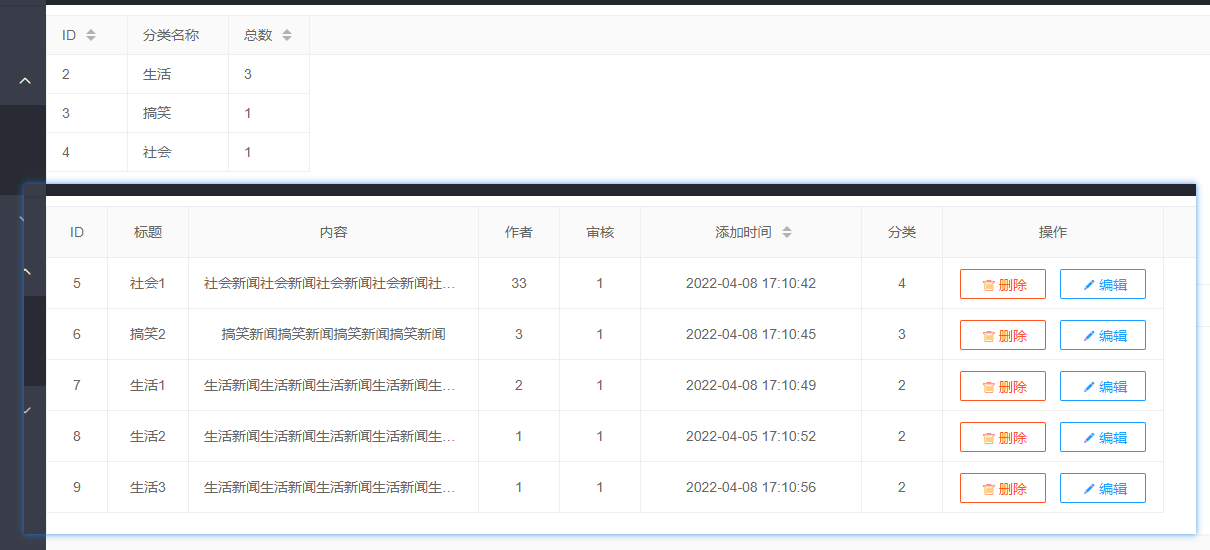
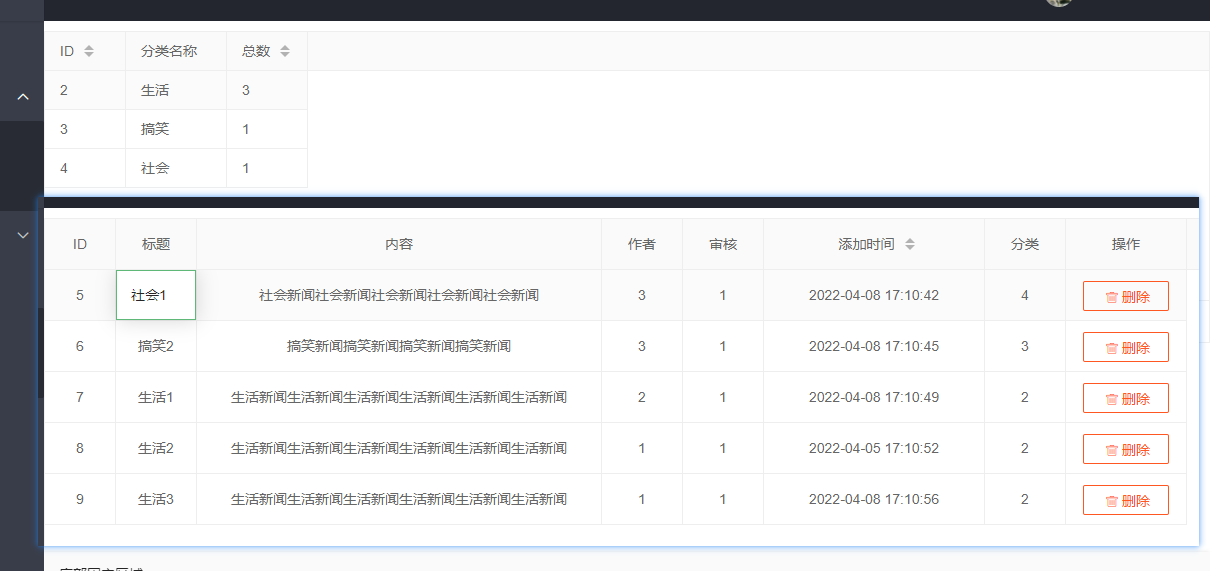
feat:修改

diff --git a/views/articleList.html b/views/articleList.html
@@ -50,9 +50,6 @@
         <button class="deleteBtn layui-btn layui-btn-primary layui-border-red" lay-event="del" title="删除">
             <i class="layui-icon">&#xe640;</i>删除
         </button>
-        <button class="putBtn layui-btn layui-btn-primary layui-border-blue" lay-event="edit" title="编辑">
-            <i class="layui-icon">&#xe642;</i>编辑
-        </button>
     </div>
 
     <!-- 底部 -->
@@ -108,7 +105,7 @@
                     {
                         field: 'id',
                         title: 'ID',
-                        width: 60,
+                        width: 70,
                         // sort: true,
                         // fixed: 'left'
                     }, {
@@ -120,7 +117,7 @@
                     }, {
                         field: 'content',
                         title: '内容',
-                        width: '25%',
+                        width: '35%',
                         edit: true
 
                     }, {
@@ -150,7 +147,7 @@
 
                     }, {
                         title: '操作',
-                        width: 220,
+                        width: 120,
                         toolbar: '#toolbarDemo'
                     },
                 ]
@@ -159,62 +156,35 @@
 
         });
 
-        // 工具条事件
-        table.on('tool(table)', function (obj) {
-            var data = obj.data; //获得当前行数据
-            var layEvent = obj.event; //获得 lay-event 对应的值（也可以是表头的 event 参数对应的值）
-            var tr = obj.tr; //获得当前行 tr 的 DOM 对象（如果有的话）
 
-            let {
-                id,
-                title,
-                content,
-                author,
-                status,
-                add_date,
-                cate_id
-            } = data;
+        // 工具条事件
+
+        // 编辑
+        table.on('edit(table)', function (obj) {
+            $.ajax({
+                type: 'put',
+                url: '/updateArticle',
+                data: obj.data,
+            })
+        });
+
+
+        table.on('tool(table)', function (obj) {
+            var data = obj.data; // 获得当前行数据
+            var layEvent = obj.event; // 获得 lay-event 对应的值（也可以是表头的 event 参数对应的值）
+            var tr = obj.tr; // 获得当前行 tr 的 DOM 对象（如果有的话）
+
 
             if (layEvent === 'del') {
                 layer.confirm('确认删除', function (index) {
-                    obj.del(); //删除对应行（tr）的DOM结构，并更新缓存
+                    obj.del(); // 删除对应行（tr）的DOM结构，并更新缓存
                     layer.close(index);
-                    //向服务端发送删除指令
-
+                    // 删除数据
                     $.ajax({
                         type: 'delete',
-                        url: '/deleteArticle?id=' + id
+                        url: '/deleteArticle?id=' + data.id
                     })
-
                 });
-            } else if (layEvent === 'edit') {
-
-                //同步更新缓存对应的值
-                obj.update({
-                    id,
-                    title,
-                    content,
-                    author,
-                    status,
-                    add_date,
-                    cate_id
-                });
-
-                $.ajax({
-                    type: 'put',
-                    url: '/updateArticle',
-                    data: {
-                        id,
-                        title,
-                        content,
-                        author,
-                        status,
-                        add_date,
-                        cate_id
-                    }
-                }).then(res => {
-                    console.log(res);
-                })
             }
         });
 
